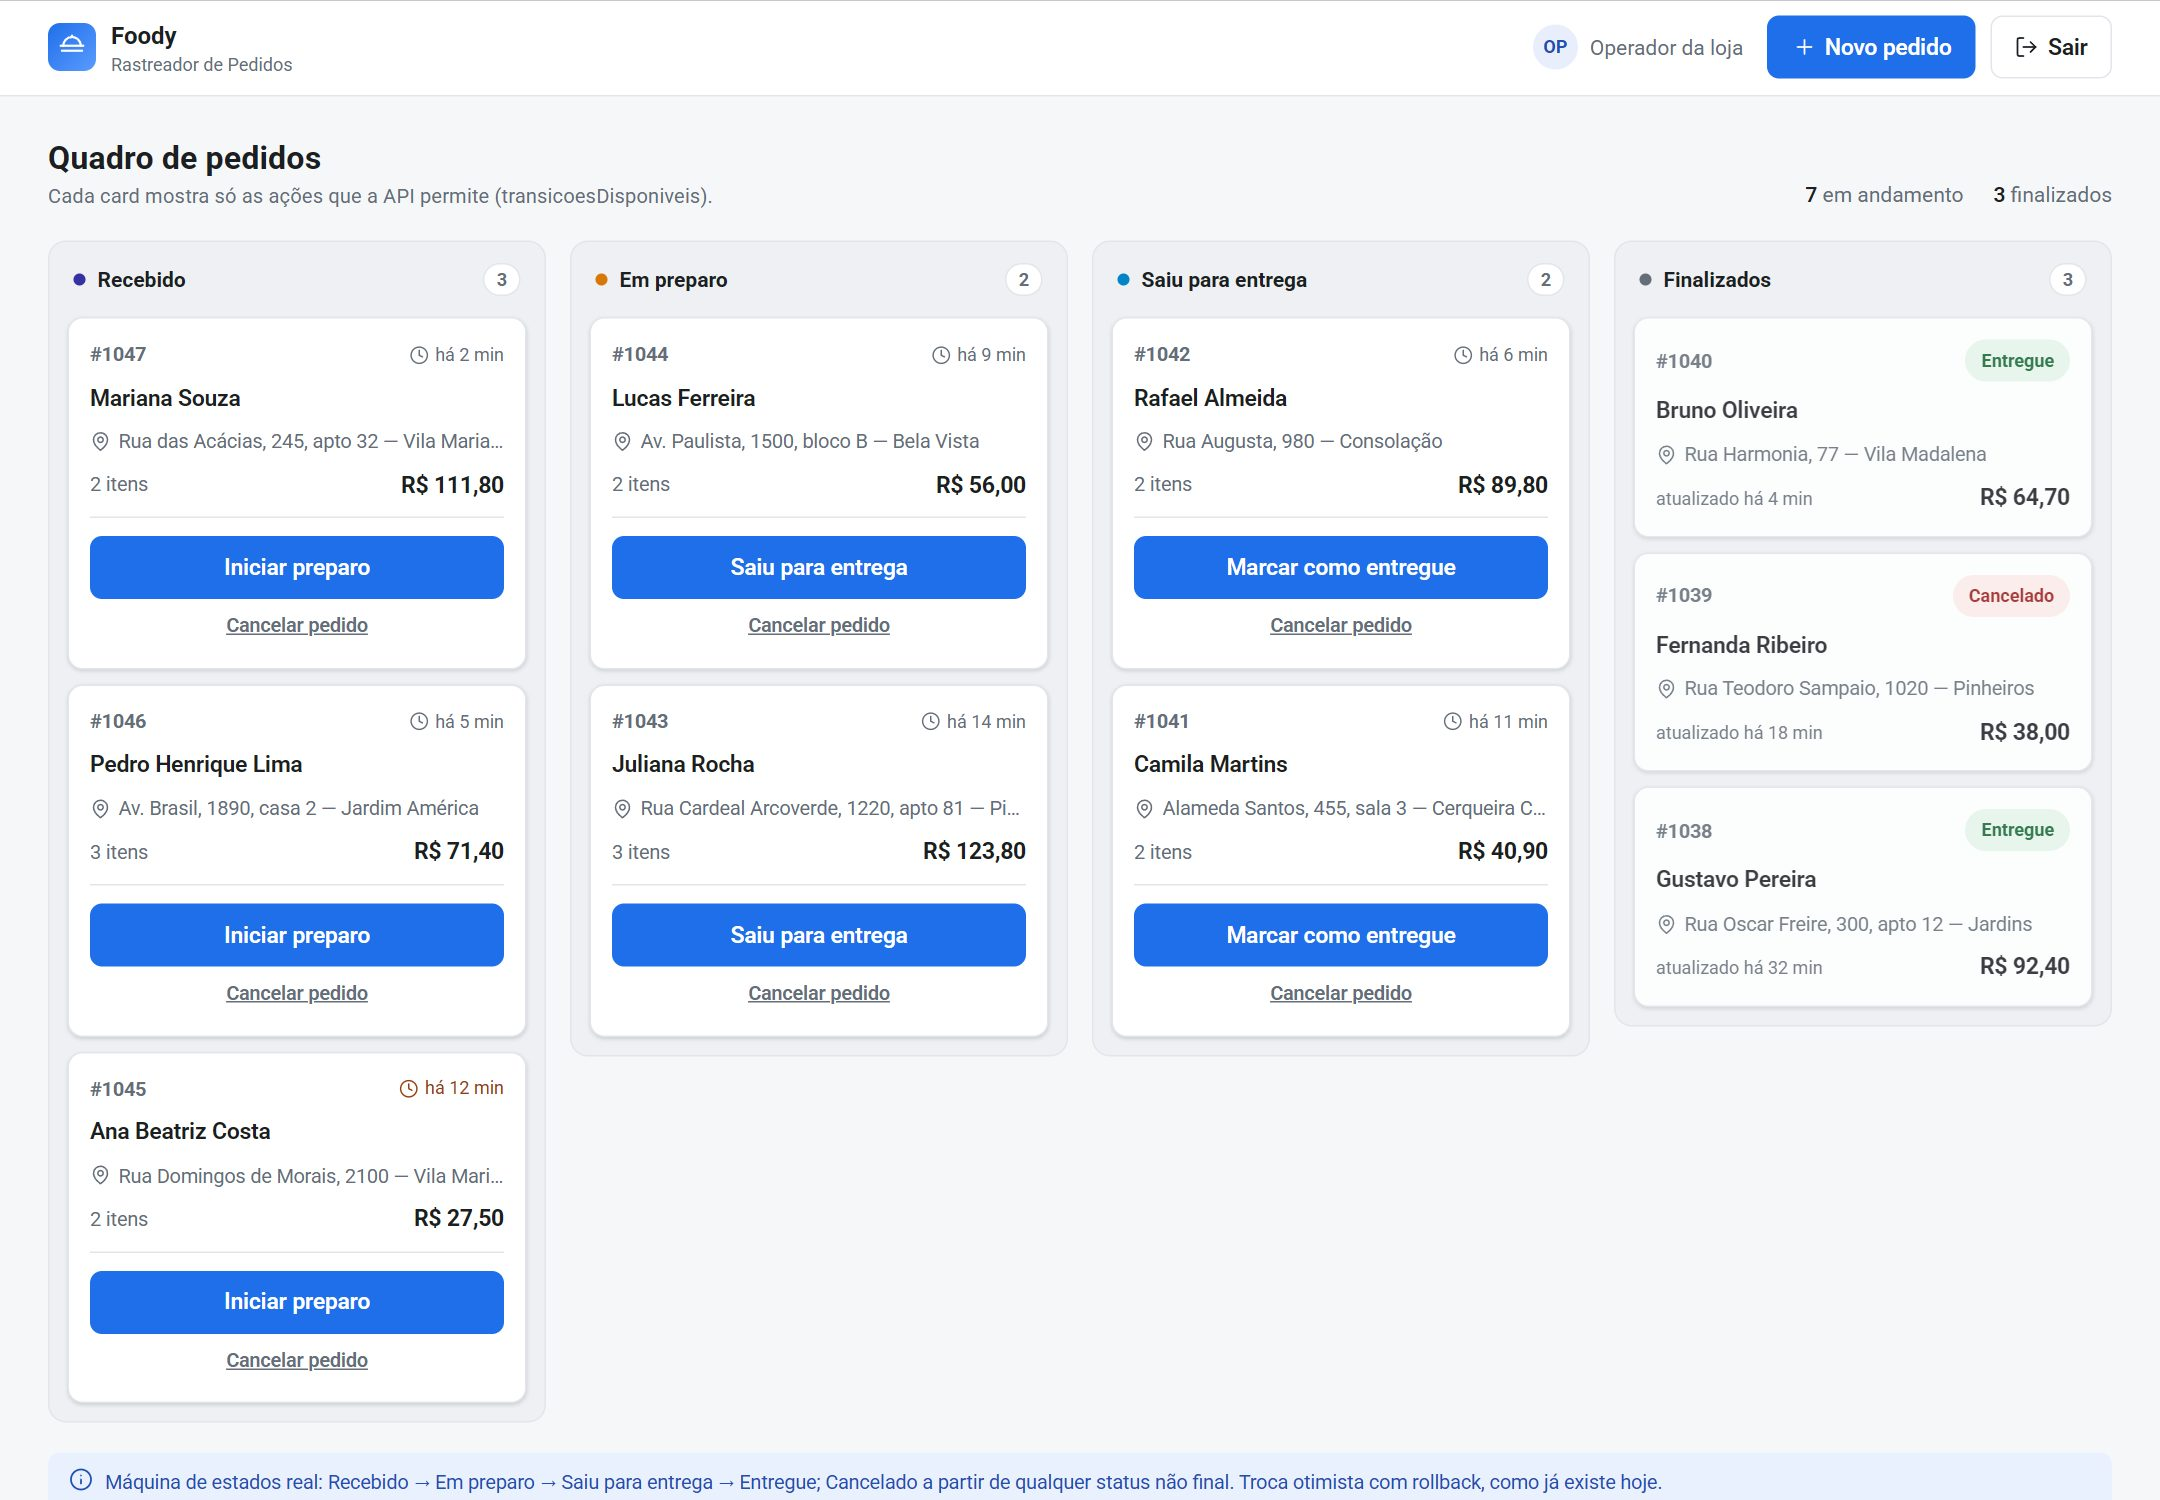
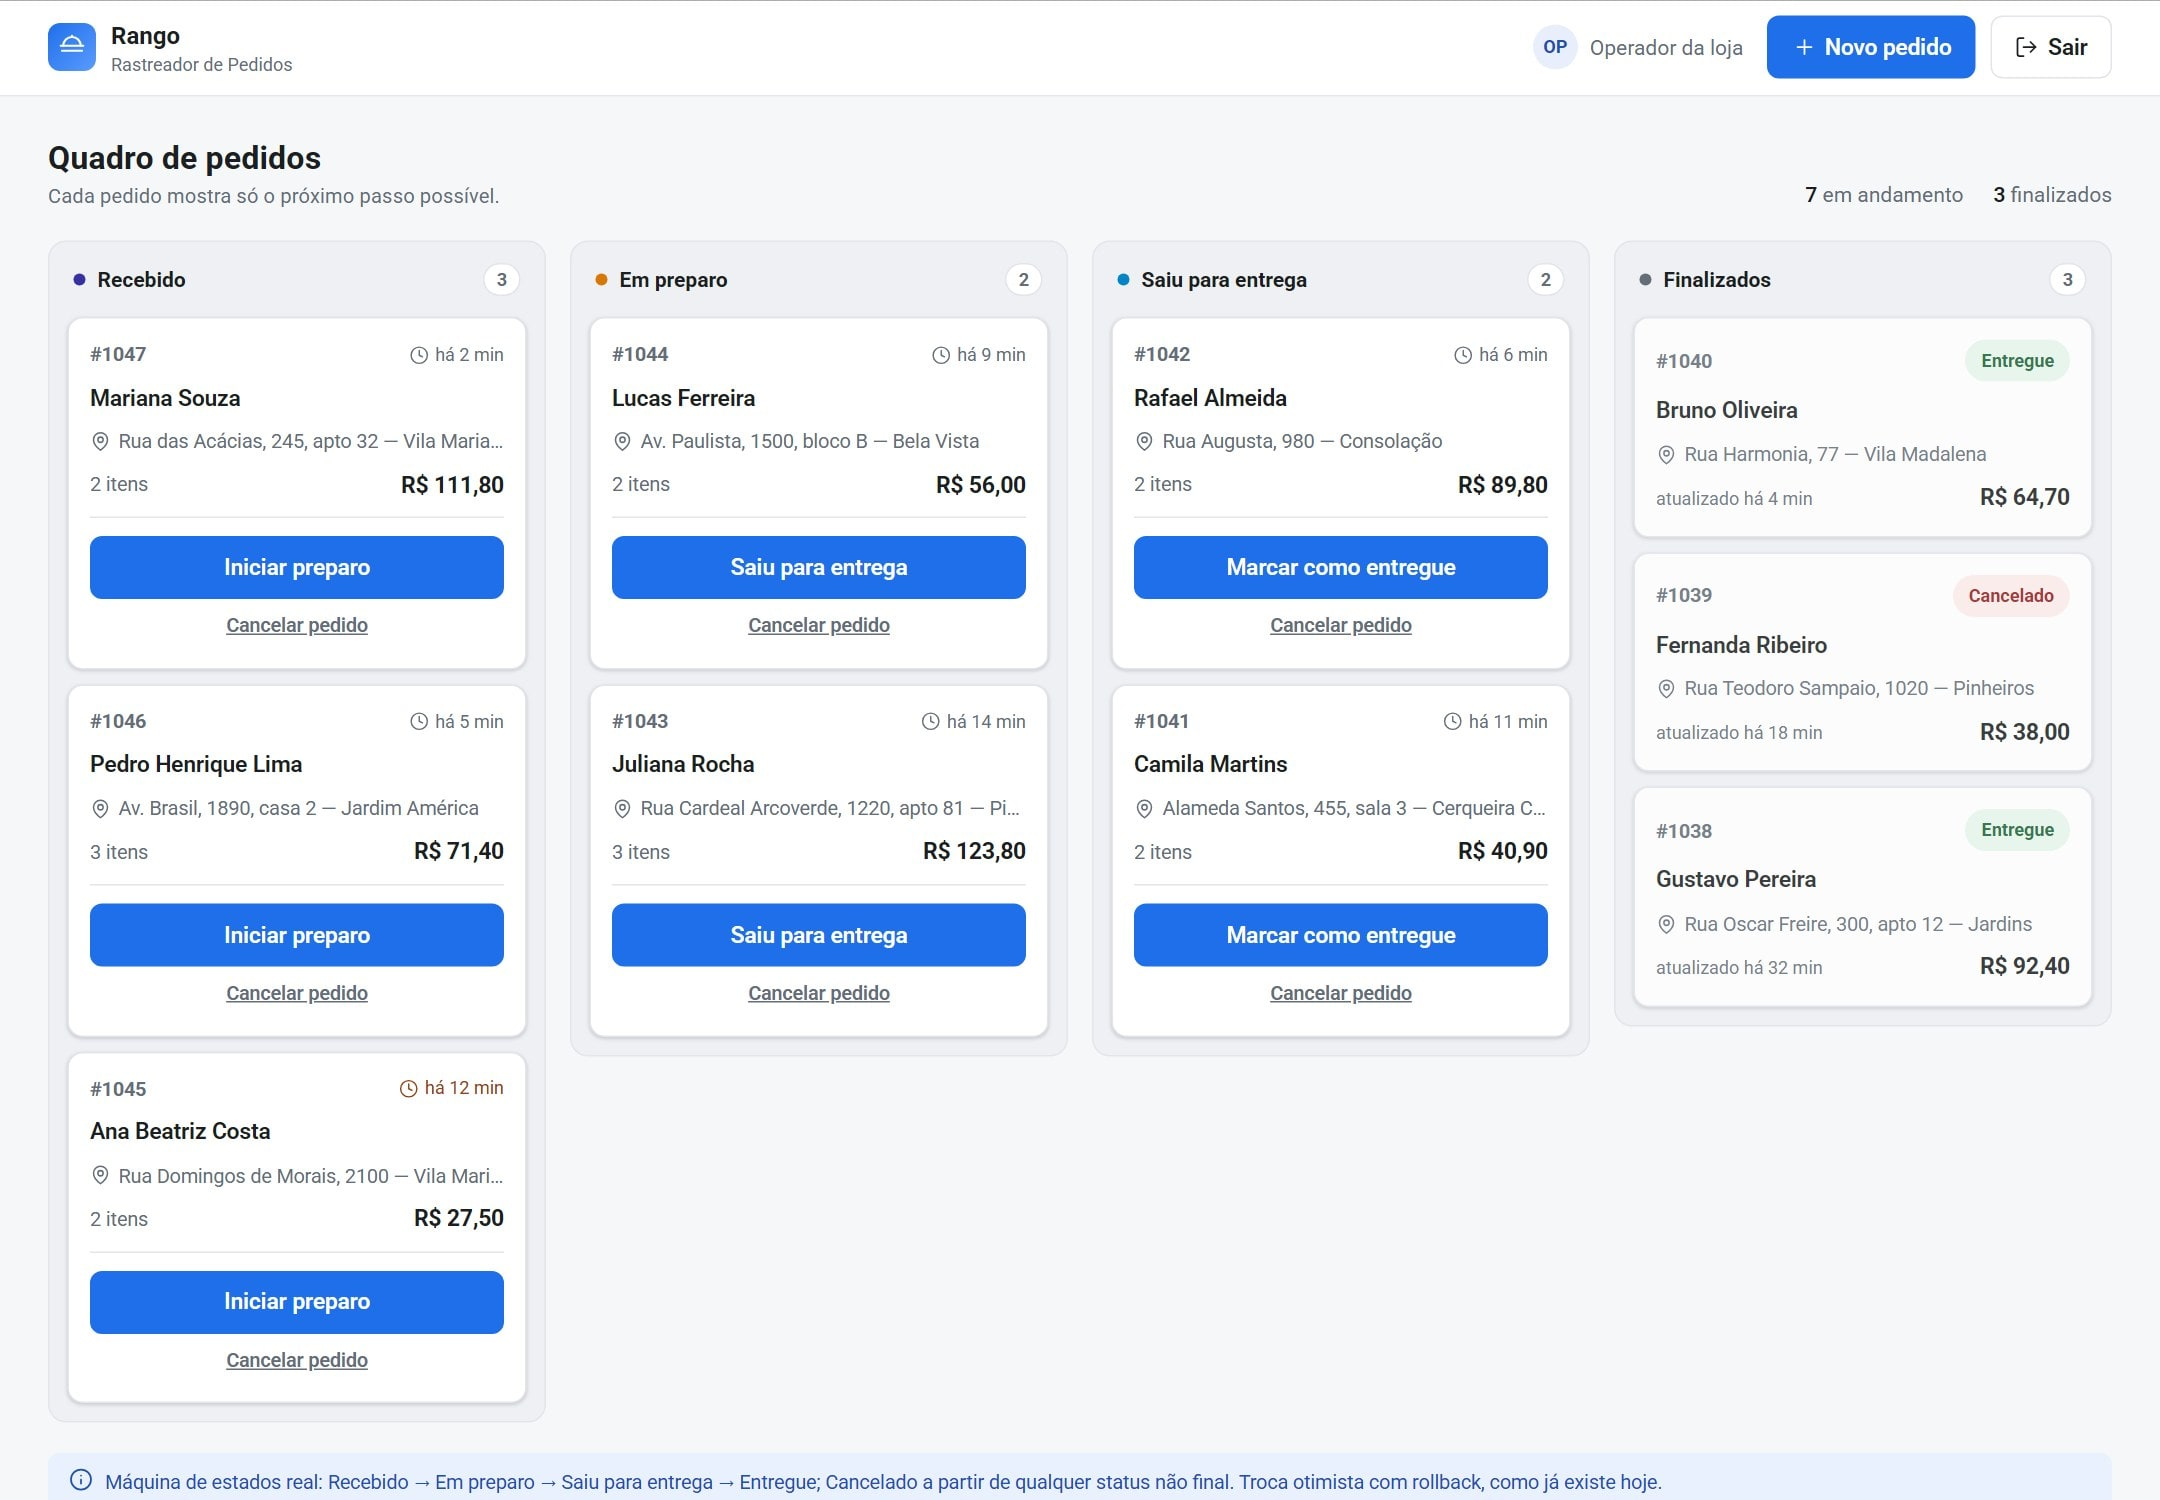
Troca o nome Foody por Rango no estudo de UX
O projeto foi renomeado para Rango. Card do /ux, titulo e telas do estudo
passam a usar o nome novo; a imagem do quadro foi gerada de novo a partir
do prototipo atualizado.

Changed region(s): [[0.062, 0.1227, 0.3102, 0.1533], [0.031, 0.0, 0.0931, 0.0307]]

diff --git a/public/estudos-ux/foody.html b/public/estudos-ux/foody.html
@@ -4,12 +4,12 @@
 <meta charset="UTF-8">
 <meta name="viewport" content="width=device-width, initial-scale=1.0">
 <meta name="author" content="Claudio Alvarenga">
-<title>Foody — Rastreador de Pedidos · atual e evolução · Claudio Alvarenga</title>
+<title>Rango — Rastreador de Pedidos · atual e evolução · Claudio Alvarenga</title>
 <link rel="preconnect" href="https://fonts.googleapis.com">
 <link rel="preconnect" href="https://fonts.gstatic.com" crossorigin>
 <link href="https://fonts.googleapis.com/css2?family=Roboto:wght@400;500;600;700&display=swap" rel="stylesheet">
 <style>
-  /* Tokens reais: foody-delivery/frontend/src/estilos.css (tema claro) */
+  /* Tokens reais: rango/frontend/src/estilos.css (tema claro) */
   .frame {
     --fundo: #f6f7f9;
     --superficie: #ffffff;
@@ -511,7 +511,7 @@
       <header class="topo-app">
         <div class="marca">
           <div class="marca-logo"><svg class="i i-20" viewBox="0 0 24 24"><path d="M3 11h18"/><path d="M5 11a7 7 0 0 1 14 0"/><path d="M4 15h16"/><path d="M12 4V3"/></svg></div>
-          <div><strong>Foody</strong><small>Rastreador de Pedidos</small></div>
+          <div><strong>Rango</strong><small>Rastreador de Pedidos</small></div>
         </div>
         <div class="topo-acoes">
           <div class="operador"><div class="avatar">OP</div>Operador da loja</div>
@@ -785,7 +785,7 @@
       <header class="topo-app">
         <div class="marca">
           <div class="marca-logo"><svg class="i i-20" viewBox="0 0 24 24"><path d="M3 11h18"/><path d="M5 11a7 7 0 0 1 14 0"/><path d="M4 15h16"/><path d="M12 4V3"/></svg></div>
-          <div><strong>Foody</strong><small>Rastreador de Pedidos</small></div>
+          <div><strong>Rango</strong><small>Rastreador de Pedidos</small></div>
         </div>
         <div class="topo-acoes">
           <button class="btn secundario"><svg class="i" viewBox="0 0 24 24"><path d="M18 6 6 18M6 6l12 12"/></svg>Fechar</button>
@@ -1007,7 +1007,7 @@
     <section class="frame" style="width:640px">
       <div class="roadmap">
         <div>
-          <h1>Foody — do rastreador ao produto</h1>
+          <h1>Rango — do rastreador ao produto</h1>
           <p class="lead">Java 21 + Spring Boot 3 + SQLite + JWT no backend; React 19 sem router no front. Persona real hoje: só o operador da loja/central.</p>
         </div>
 

diff --git a/src/content/ux.ts b/src/content/ux.ts
@@ -84,7 +84,7 @@ export const uxCases: UxCase[] = [
   },
   {
     slug: "foody",
-    name: "Foody",
+    name: "Rango",
     tagline: "Rastreador de pedidos: de uma lista única para um quadro que mostra a operação inteira de relance.",
     before: img("foody-antes", "Tela atual: lista de pedidos com formulário ao lado", 1440, 1000),
     after: img("foody-depois", "Proposta: quadro por etapa, de Recebido a Finalizados", 1440, 1000),
